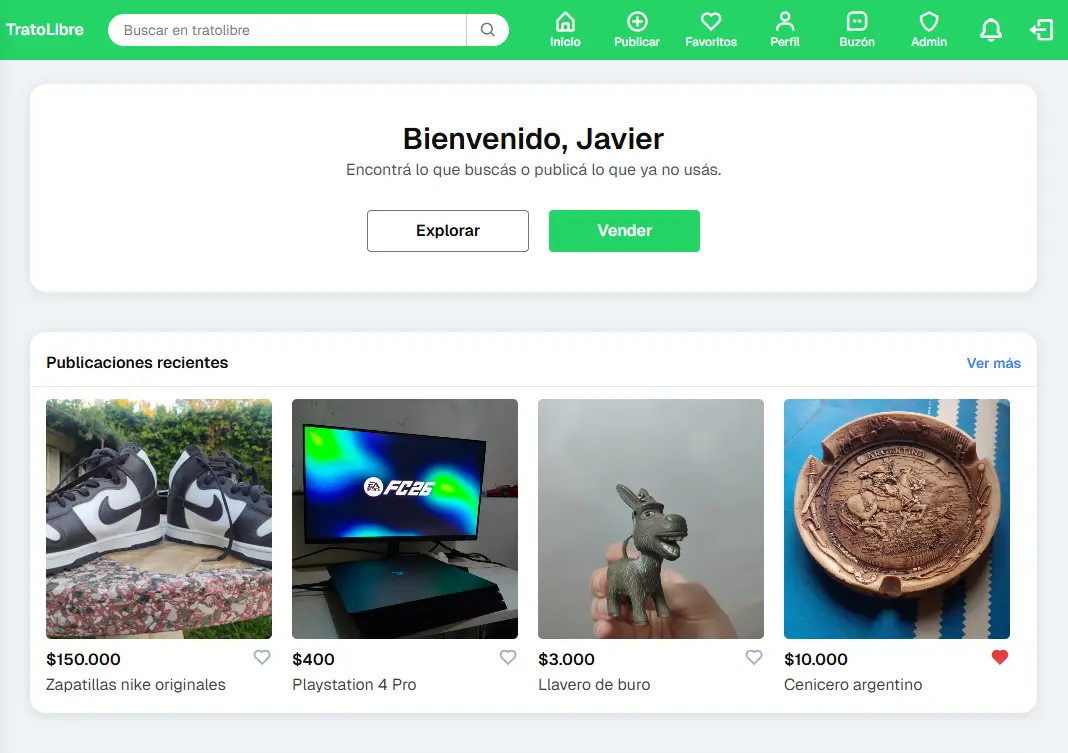
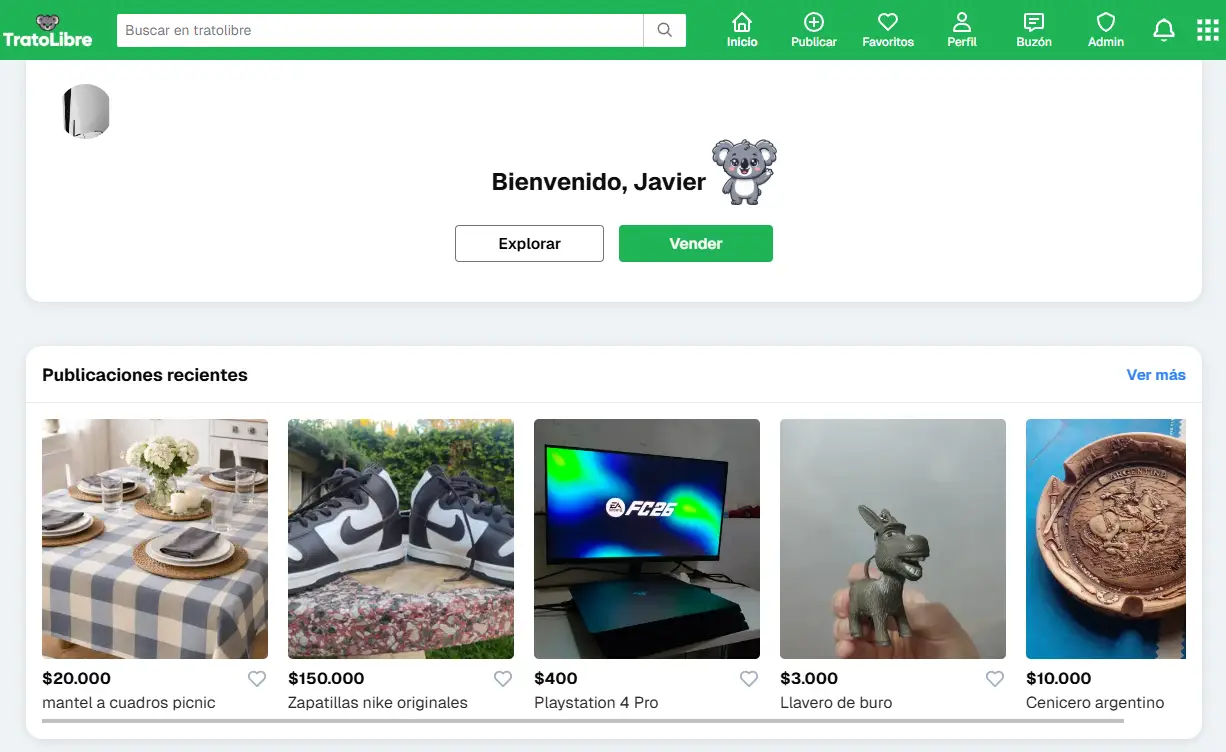
brand img from png to webp , adding google login button in login form , adjusting navbar, changing readme images

diff --git a/src/features/auth/components/LoginForm.tsx b/src/features/auth/components/LoginForm.tsx
@@ -4,12 +4,12 @@ import { useState, useEffect } from "react";
 import { useForm } from "react-hook-form";
 import { zodResolver } from "@hookform/resolvers/zod";
 import { loginSchema, type LoginInput } from "@/features/auth/schemas";
-import { useLogin } from "@/features/auth/hooks";
 import NextLink from "next/link";
 import Image from "next/image";
 import { Flex, Text, Stack, Box } from "@chakra-ui/react";
 import { Button } from "@/shared/components/ui/Button";
 import { Checkbox } from "@/shared/components/ui/checkbox";
+import { useLogin, useGoogleLogin } from "@/features/auth/hooks";
 
 import { FormField } from "./FormField";
 
@@ -20,6 +20,7 @@ export const LoginForm = () => {
   const [rememberMe, setRememberMe] = useState(false);
 
   const { login, isPending, error, clearError } = useLogin();
+  const { handleGoogleLogin, isPending: isGooglePending } = useGoogleLogin();
 
   const {
     register,
@@ -30,7 +31,6 @@ export const LoginForm = () => {
     resolver: zodResolver(loginSchema),
   });
 
-  // Cargar credenciales guardadas al montar
   useEffect(() => {
     try {
       const saved = localStorage.getItem(STORAGE_KEY);
@@ -41,29 +41,25 @@ export const LoginForm = () => {
         setRememberMe(true);
       }
     } catch (err) {
-      // Si hay error, limpiar localStorage
       localStorage.removeItem(STORAGE_KEY);
     }
   }, [setValue]);
 
   const onSubmit = async (data: LoginInput) => {
-    // Guardar o limpiar credenciales según el checkbox
     if (rememberMe) {
       localStorage.setItem(STORAGE_KEY, JSON.stringify(data));
     } else {
       localStorage.removeItem(STORAGE_KEY);
     }
-
     await login(data);
   };
 
   return (
     <Flex direction="column" maxW="360px" mx="auto" w="full" py={4}>
-      {/* Logo */}
       <Flex justify="center" mb={6}>
         <NextLink href="/">
           <Image
-            src="/koala/logotext2.png"
+            src="/koala/logotext.webp"
             alt="TratoLibre Logo"
             width={180}
             height={45}
@@ -76,6 +72,48 @@ export const LoginForm = () => {
       <Text fontSize="xl" fontWeight="bold" color="neutral.900" mb={1}>
         Iniciar sesión
       </Text>
+
+      {/* Botón de Google  */}
+      <Button
+        variant="blue"
+        width="full"
+        borderRadius="full"
+        py={1.5}
+        mt={4}
+        onClick={handleGoogleLogin}
+        loading={isGooglePending}
+        disabled={isPending}
+      >
+        <Flex align="center" gap={2}>
+          <svg width="18" height="18" viewBox="0 0 18 18" fill="none">
+            <path
+              d="M17.64 9.205c0-.639-.057-1.252-.164-1.841H9v3.481h4.844a4.14 4.14 0 0 1-1.796 2.716v2.259h2.908c1.702-1.567 2.684-3.875 2.684-6.615Z"
+              fill="#4285F4"
+            />
+            <path
+              d="M9 18c2.43 0 4.467-.806 5.956-2.18l-2.908-2.259c-.806.54-1.837.86-3.048.86-2.344 0-4.328-1.584-5.036-3.711H.957v2.332A8.997 8.997 0 0 0 9 18Z"
+              fill="#34A853"
+            />
+            <path
+              d="M3.964 10.71A5.41 5.41 0 0 1 3.682 9c0-.593.102-1.17.282-1.71V4.958H.957A8.996 8.996 0 0 0 0 9c0 1.452.348 2.827.957 4.042l3.007-2.332Z"
+              fill="#FBBC05"
+            />
+            <path
+              d="M9 3.58c1.321 0 2.508.454 3.44 1.345l2.582-2.58C13.463.891 11.426 0 9 0A8.997 8.997 0 0 0 .957 4.958L3.964 7.29C4.672 5.163 6.656 3.58 9 3.58Z"
+              fill="#EA4335"
+            />
+          </svg>
+          <Text>Continuar con Google</Text>
+        </Flex>
+      </Button>
+
+      <Flex align="center" my={4} gap={2}>
+        <Box flex="1" h="1px" bg="neutral.200" />
+        <Text fontSize="xs" color="neutral.400">
+          o
+        </Text>
+        <Box flex="1" h="1px" bg="neutral.200" />
+      </Flex>
 
       <form onSubmit={handleSubmit(onSubmit)}>
         <Stack gap="2">
@@ -111,7 +149,6 @@ export const LoginForm = () => {
             }
           />
 
-          {/* Recordarme */}
           <Flex justify="space-between" align="center" pt={1}>
             <Checkbox
               checked={rememberMe}
@@ -148,6 +185,7 @@ export const LoginForm = () => {
             py={1.5}
             mt={3}
             loading={isPending}
+            disabled={isGooglePending}
             data-testid="submit-button"
           >
             Iniciar sesión

diff --git a/src/features/auth/hooks/useGoogleLogin.ts b/src/features/auth/hooks/useGoogleLogin.ts
@@ -1,0 +1,31 @@
+"use client";
+
+import { useState } from "react";
+import { googleLoginService } from "../services/google-login-service";
+
+export function useGoogleLogin() {
+  const [isPending, setIsPending] = useState(false);
+  const [error, setError] = useState<string | null>(null);
+
+  const handleGoogleLogin = async () => {
+    setIsPending(true);
+    setError(null);
+
+    try {
+      await googleLoginService();
+      // Supabase automáticamente redirige, no necesitamos más lógica
+    } catch (err) {
+      setError("Error al iniciar sesión con Google");
+      console.error(err);
+    } finally {
+      setIsPending(false);
+    }
+  };
+
+  return {
+    handleGoogleLogin,
+    isPending,
+    error,
+    clearError: () => setError(null),
+  };
+}

diff --git a/src/features/auth/services/google-login-service.ts b/src/features/auth/services/google-login-service.ts
@@ -1,0 +1,18 @@
+import { createClient } from "@/lib/supabase/client/browser";
+
+export async function googleLoginService() {
+  const supabase = createClient();
+
+  const { data, error } = await supabase.auth.signInWithOAuth({
+    provider: "google",
+    options: {
+      redirectTo: `${window.location.origin}/auth/callback`,
+    },
+  });
+
+  if (error) {
+    throw new Error(error.message);
+  }
+
+  return data;
+}

diff --git a/src/shared/components/layout/navigation/NavbarTop.tsx b/src/shared/components/layout/navigation/NavbarTop.tsx
@@ -50,7 +50,7 @@ export const NavbarTop = ({
       {/* Logo Desktop */}
       <NextLink href="/" passHref aria-label="Ir al inicio de TratoLibre">
         <Box flexShrink={0}>
-          <Image src="/koala/logotextwhite.png" alt="TratoLibre" h="33px" />
+          <Image src="/koala/logotextwhite.webp" alt="TratoLibre" h="33px" />
         </Box>
       </NextLink>
 
@@ -137,10 +137,10 @@ export const NavbarTop = ({
     {/* Mobile Layout */}
     <Box display={{ base: "block", md: "none" }}>
       {/* Single Row: Logo + Search + Bell + Categories */}
-      <Flex px={1} py={2.5} align="center" gap={2}>
+      <Flex px={2} py={2.5} align="center" gap={2}>
         <NextLink href="/" passHref aria-label="Ir al inicio de TratoLibre">
           <Box flexShrink={0}>
-            <Image src="/koala/logo.png" alt="TratoLibre" h="35px" />
+            <Image src="/koala/logo.webp" alt="TratoLibre" h="35px" />
           </Box>
         </NextLink>
 

diff --git a/app/layout.tsx b/app/layout.tsx
@@ -37,7 +37,7 @@ export const metadata: Metadata = {
     type: "website",
     images: [
       {
-        url: "/og-image.png",
+        url: "/og-image.webp",
         width: 1200,
         height: 630,
       },
@@ -47,7 +47,7 @@ export const metadata: Metadata = {
     card: "summary_large_image",
     title: "TratoLibre — Compra y vende objetos",
     description: "Marketplace de objetos usados entre personas",
-    images: ["/og-image.png"],
+    images: ["/og-image.webp"],
   },
 };
 

diff --git a/app/not-found.tsx b/app/not-found.tsx
@@ -9,7 +9,7 @@ export default function NotFound() {
       <div className={styles.logoWrapper}>
         <NextLink href="/">
           <Image
-            src="/koala/logotext2.png"
+            src="/koala/logotext.webp"
             alt="TratoLibre Inicio"
             width={140}
             height={35}
@@ -21,7 +21,7 @@ export default function NotFound() {
 
       <main className={styles.main}>
         <EmptyState
-          image="/koala/404.png"
+          image="/koala/404.webp"
           imageAlt="Koala no encuentra la pagina que buscas"
           title="¡Parece que no existe la pagina que buscas!"
           description="No encontramos lo que buscabas. Quizás ya no existe o nunca existió."

diff --git a/app/(main)/item/[id]/page.tsx b/app/(main)/item/[id]/page.tsx
@@ -21,7 +21,7 @@ export async function generateMetadata({
   const title = `${item.title}`;
   const description =
     item.description?.slice(0, 150) ?? "Objeto publicado en TratoLibre";
-  const image = item.images?.[0] ?? "/og-image.png";
+  const image = item.images?.[0] ?? "/og-image.webp";
 
   return {
     title: item.title,

diff --git a/app/(main)/profile/[id]/page.tsx b/app/(main)/profile/[id]/page.tsx
@@ -14,7 +14,7 @@ export async function generateMetadata({
 
   const title = data.profile.name ?? "Usuario";
   const description = `Perfil de ${title} en TratoLibre`;
-  const image = data.profile.avatar_url ?? "/og-image.png";
+  const image = data.profile.avatar_url ?? "/og-image.webp";
 
   return {
     title,

diff --git a/app/error.tsx b/app/error.tsx
@@ -11,7 +11,7 @@ export default function Error({ reset }: { reset: () => void }) {
       <div className={styles.logoWrapper}>
         <NextLink href="/">
           <Image
-            src="/koala/logotext2.png"
+            src="/koala/logotext.webp"
             alt="TratoLibre"
             width={200}
             height={100}

diff --git a/src/features/auth/components/RegisterForm.tsx b/src/features/auth/components/RegisterForm.tsx
@@ -81,7 +81,7 @@ export const RegisterForm = () => {
       <Flex justify="center" mb={6}>
         <NextLink href="/">
           <Image
-            src="/koala/logotext2.png"
+            src="/koala/logotext.webp"
             alt="TratoLibre Logo"
             width={180}
             height={45}

diff --git a/src/features/favorites/FavoritesView.tsx b/src/features/favorites/FavoritesView.tsx
@@ -52,7 +52,7 @@ export function FavoritesView({
 
         {initialFavorites.length === 0 ? (
           <EmptyState
-            image="/koala/favorites.png"
+            image="/koala/favorites.webp"
             imageAlt="Sin favoritos"
             title="Todavía no tenés favoritos"
             description="Para guardar un producto, tocá el ícono de corazón."

diff --git a/src/shared/components/layout/footer/Footer.tsx b/src/shared/components/layout/footer/Footer.tsx
@@ -14,7 +14,7 @@ export const Footer = () => {
             <div>
               <div className={styles.brandContainer}>
                 <Image
-                  src="/koala/logotext2.png"
+                  src="/koala/logotext.webp"
                   alt="TratoLibre"
                   width={130}
                   height={34}